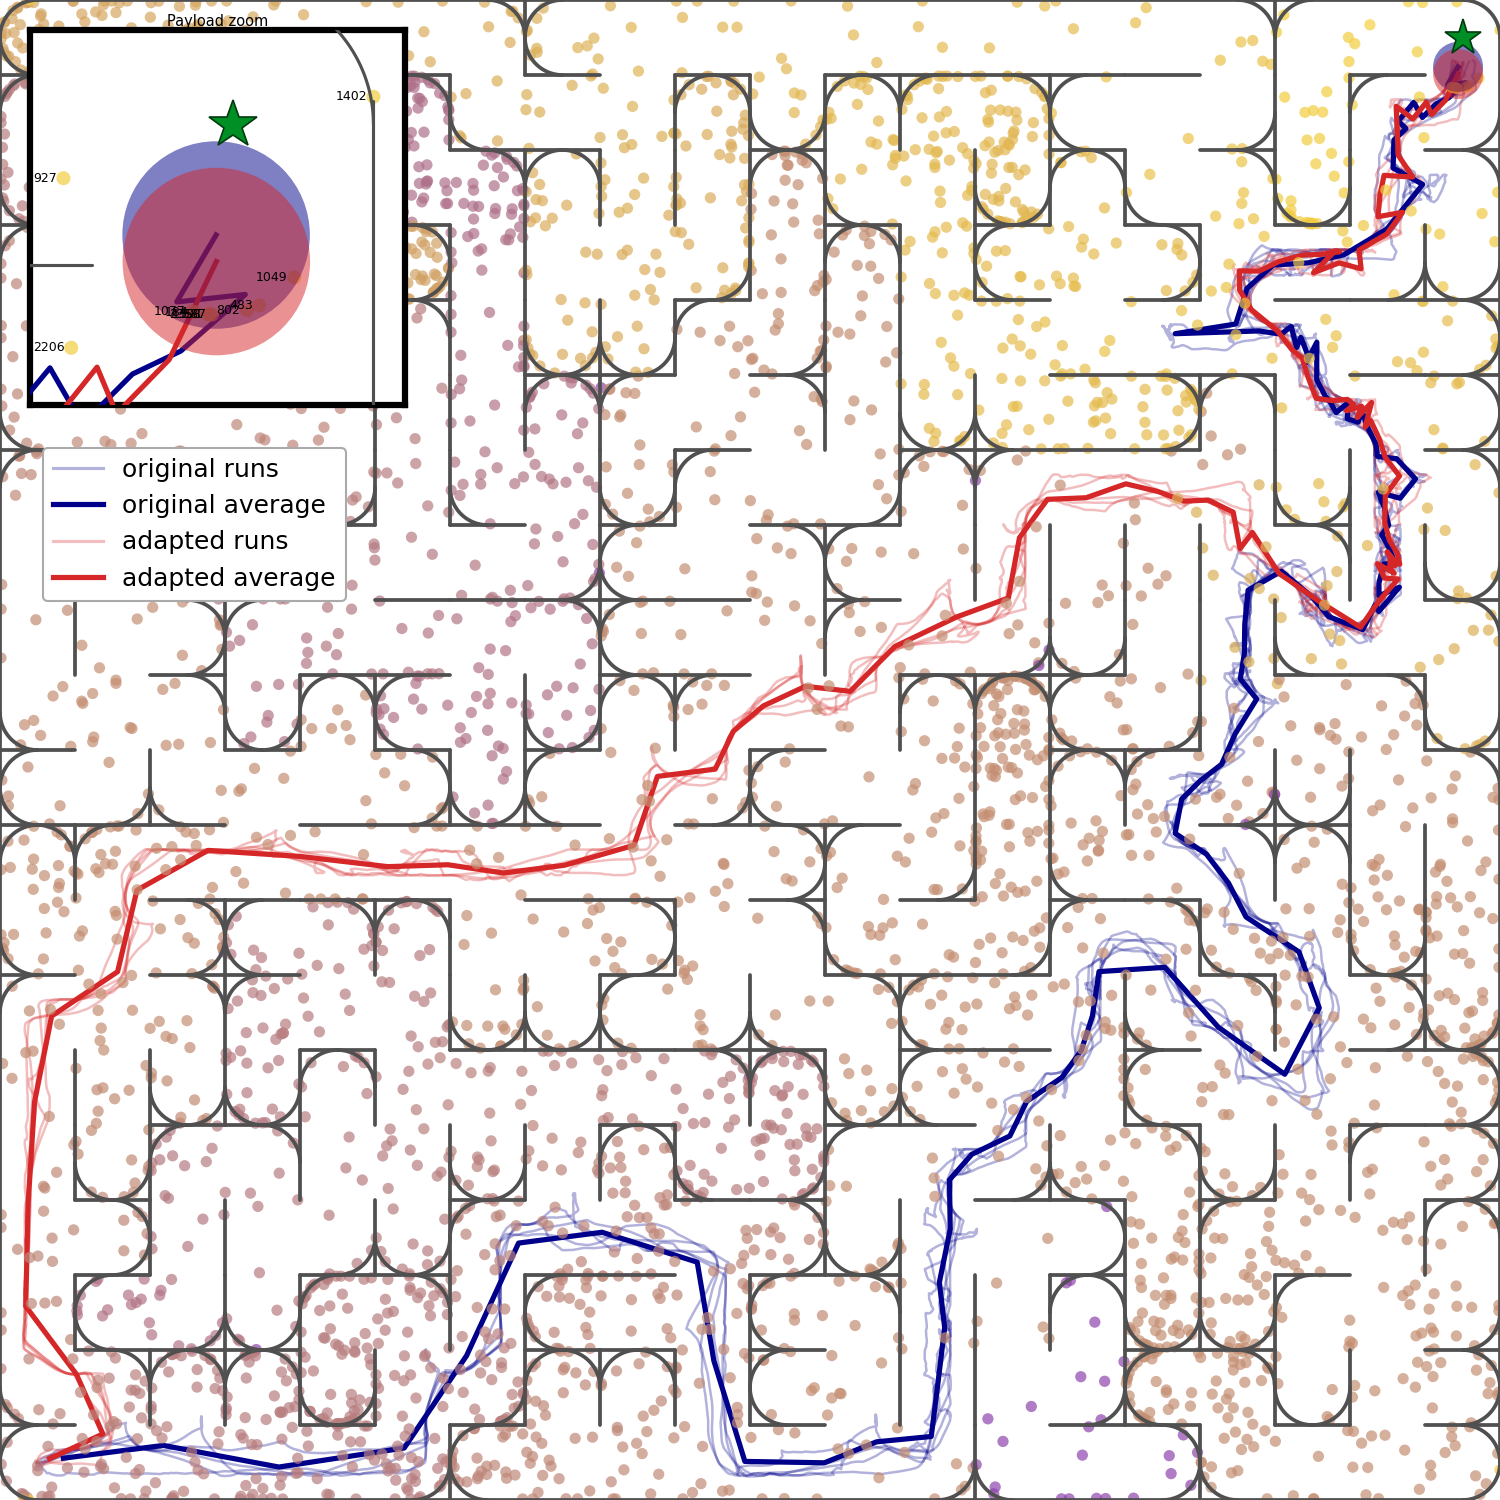
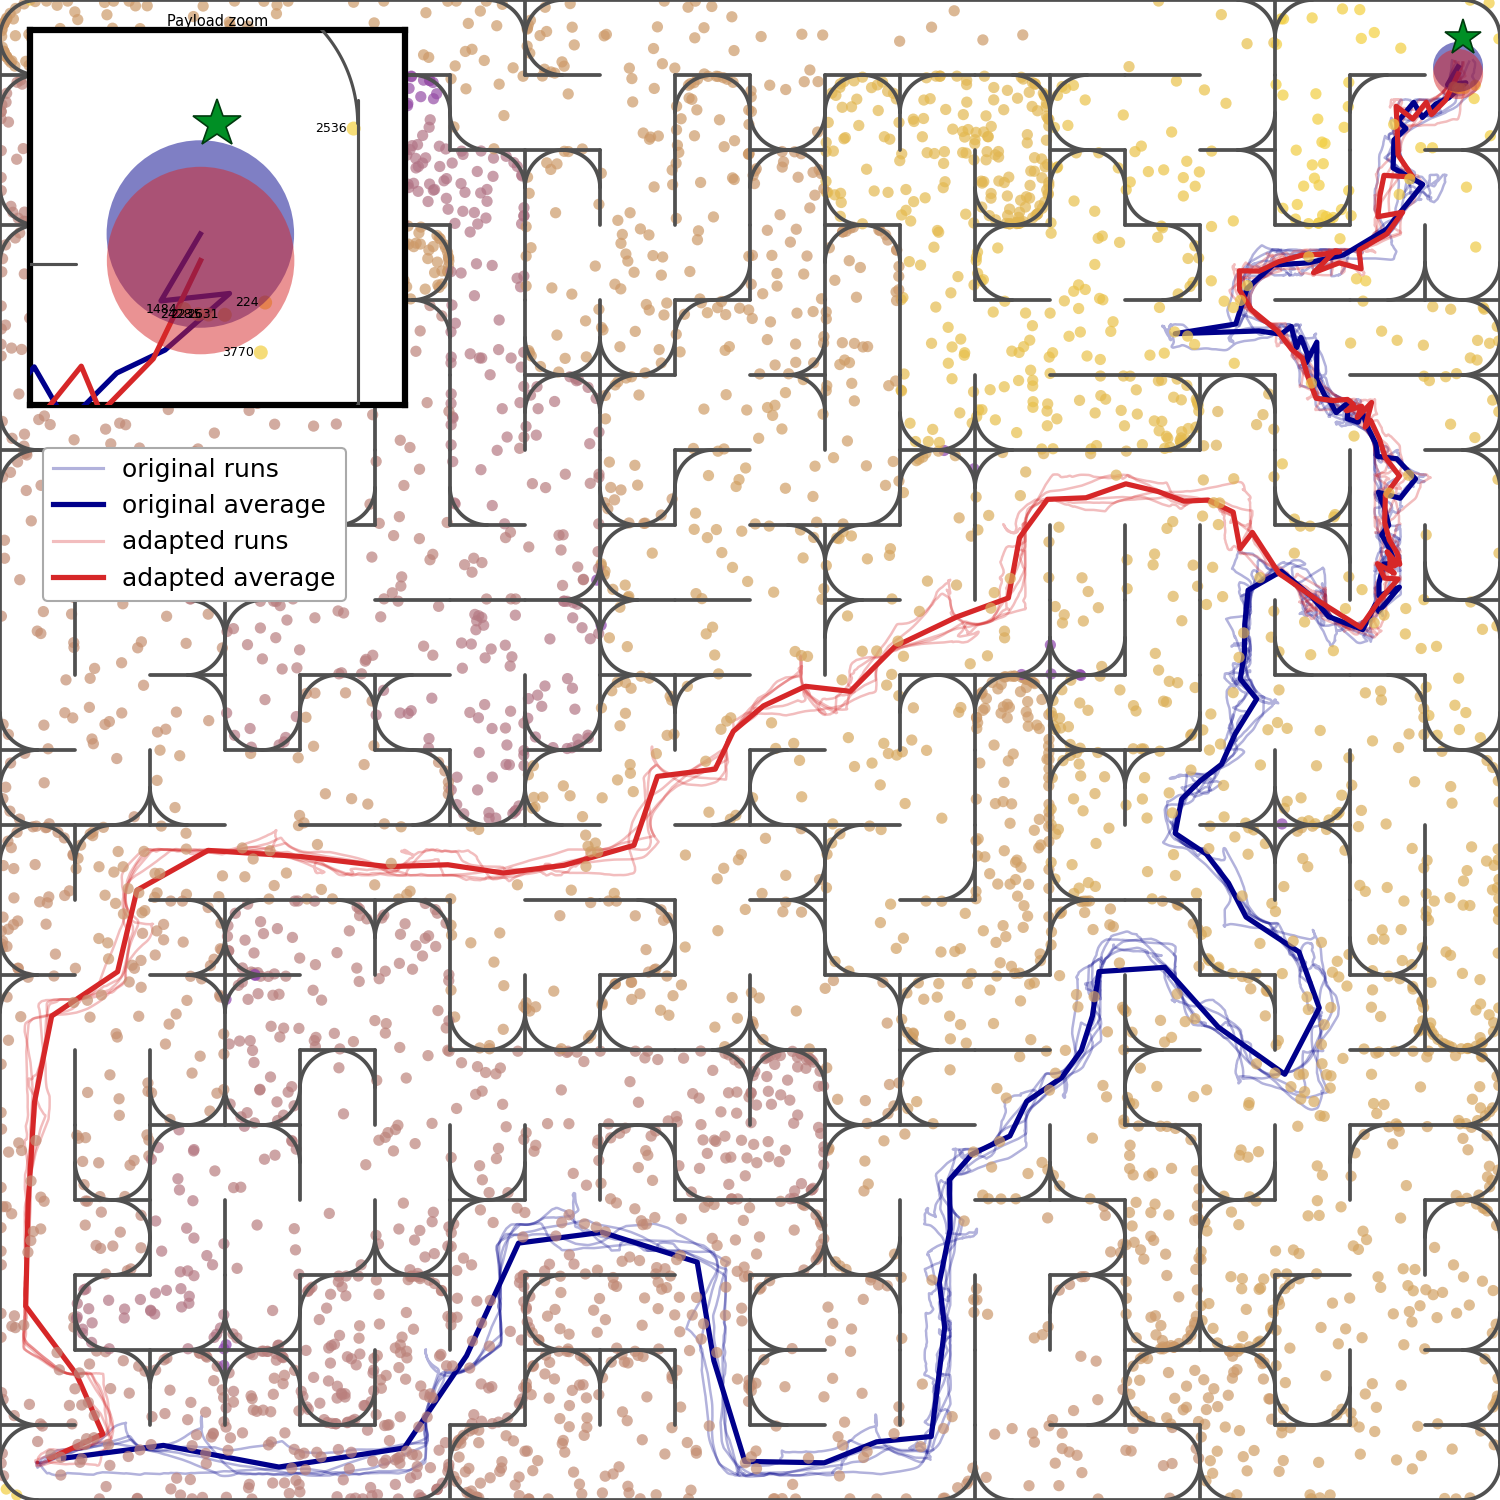
Update optimality render: run2 source, legend anchor, regenerated figure

diff --git a/fig1e/optimality_render.py b/fig1e/optimality_render.py
@@ -23,7 +23,7 @@ from tslearn.barycenters import dtw_barycenter_averaging
 
 # ── Hyperparameters ──────────────────────────────────────────────────────────
 # Reference file: supplies particles, walls, box geometry, goal
-SOURCE_FILE      = "fig1e/optimal_G20_run1.npz"
+SOURCE_FILE      = "fig1e/optimal_G20_run2.npz"
 OUTPUT_IMAGE     = "fig1e/optimality_comparison.png"
 COLOR_BY_SCORE   = True     # True = gradient by score, False = curvity blue/red
 DRAW_OPENED_WALL = True    # True = draw red line where shortcut wall was removed
@@ -422,7 +422,7 @@ if __name__ == "__main__":
         leg = ax.legend(
             handles=legend_handles,
             loc='upper left',
-            bbox_to_anchor=(0.02, 0.71),
+            bbox_to_anchor=(0.02, 1.71),
             fontsize=12,
             frameon=True,
             edgecolor='#aaaaaa',
